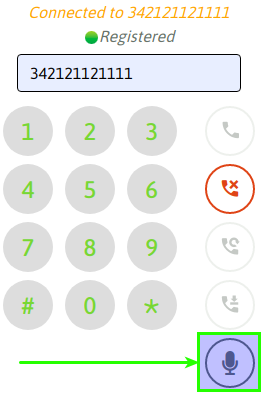
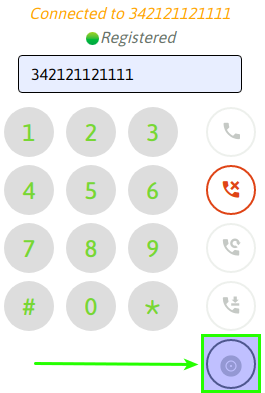
- se adiciona posibilidad de hacer stop y start a la grabacion de una   llamada (solo se queda referenciada en la base de datos la ultima   grabacion generada en la ultima secuencia) - se adiciona documentación - se realiza la i18n de la funcionalidad y de la documentación

diff --git a/ominicontacto_app/static/ominicontacto/JS/agente/phoneJsController.js b/ominicontacto_app/static/ominicontacto/JS/agente/phoneJsController.js
@@ -92,8 +92,20 @@ class PhoneJSController {
         });
 
         this.view.recordCall.click(function name(arg) {
-            $(this).attr('disabled', true);
-            self.recordCall();
+            var $recordCallButton = self.view.recordCall;
+            var $img = $recordCallButton.find('img');
+            var recordUrlStatus = $img.attr('src');
+
+            if (recordUrlStatus == self.view.imgRecordOffUrl) {
+                $img.attr('src', self.view.imgRecordOnUrl);
+                $recordCallButton.attr('title', gettext('Parar grabación llamada'));
+                self.recordCall();
+            }
+            else {
+                $img.attr('src', self.view.imgRecordOffUrl);
+                $recordCallButton.attr('title', gettext('Grabar llamada'));
+                self.stopRecordCall();
+            }
         });
 
         this.view.resumeButton.click(function() {
@@ -571,8 +583,12 @@ class PhoneJSController {
 
     recordCall() {
         // TODO: mover a modulo phoneJsSip.js
-        this.phone.currentSession.sendDTMF('*');
-        this.phone.currentSession.sendDTMF('4');
+        this.phone.currentSession.sendDTMF('*4');
+    }
+
+    stopRecordCall() {
+        // TODO: mover a modulo phoneJsSip.js
+        this.phone.currentSession.sendDTMF('*5');
     }
 
     setCallFailedStatus(cause) {

diff --git a/ominicontacto_app/templates/agente/base_agente.html b/ominicontacto_app/templates/agente/base_agente.html
@@ -689,7 +689,13 @@ along with this program.  If not, see http://www.gnu.org/licenses/.
                                         <span class="icon icon-solid-phone-save"></span>
                                     </button>
                                     <button type="button" id="recordCall" class="btn btn-outline-secondary" title="{% trans 'Grabar Llamada' %}">
-                                        <span class="fa fa-microphone"></span>
+                                        <span>
+                                            <input class="hidden" name="recordOnUrl" id="recordOnUrl" type="text"
+                                                   value="{% static 'ominicontacto/Img/record-on.svg' %}"/>
+                                            <input class="hidden" name="recordOffUrl" id="recordOffUrl" type="text"
+                                                   value="{% static 'ominicontacto/Img/record-off.svg' %}"/>
+                                            <img src="{% static 'ominicontacto/Img/record-off.svg' %}">
+                                        </span>
                                     </button>
                                 </div>
                             </div>

diff --git a/ominicontacto_app/templates/agente/campanas_preview.html b/ominicontacto_app/templates/agente/campanas_preview.html
@@ -26,7 +26,7 @@ along with this program.  If not, see http://www.gnu.org/licenses/.
     <head>
         <meta charset="UTF-8">
         <!-- Bootstrap -->
-        <link rel="stylesheet" href="{% static 'bootstrap-3.3.6/css/bootstrap.min.css' %}" >
+        <link rel="stylesheet" href="{% static 'bootstrap-3.3.6/css/bootstrap.min.css' %}" > <!-- TODO: cambiar a version 4 apenas se puedan portar o reemplazar los glyphicons (ver OML-297) -->
 
         <!-- JQuery & Datatables -->
         <link rel="stylesheet" href="{% static 'ominicontacto/CSS/jquery.dataTables.min.css' %}" >

diff --git a/ominicontacto_app/static/ominicontacto/JS/agente/phoneJsView.js b/ominicontacto_app/static/ominicontacto/JS/agente/phoneJsView.js
@@ -54,6 +54,8 @@ class PhoneJSView {
         this.tagCallButton = $('#SignCall');
         this.hangUpButton = $('#endCall');
         this.recordCall = $('#recordCall');
+        this.imgRecordOffUrl = $('#recordOffUrl').val();
+        this.imgRecordOnUrl = $('#recordOnUrl').val();
 
         this.keypad_buttons_ids = ['1', '2', '3', '4', '5', '6', '7', '8', '9', '0',
             'asterisk', 'hashtag'];

diff --git a/docs/agent_call_actions.rst b/docs/agent_call_actions.rst
@@ -168,6 +168,10 @@ Esta funcionalidad permite grabar una llamada, a partir del momento de hacer cli
 
 .. image:: images/about_agent_callactions_record_call.png
 
+La grabación de la llamada puede terminarse a elección del usuario presionando el mismo botón en medio de dicha grabación, si no se hace esto la llamada se grabará hasta el final de la llamada
+
+.. image:: images/about_agent_callactions_stop_record_call.png
+
 
 Agendamiento de llamadas
 ************************
